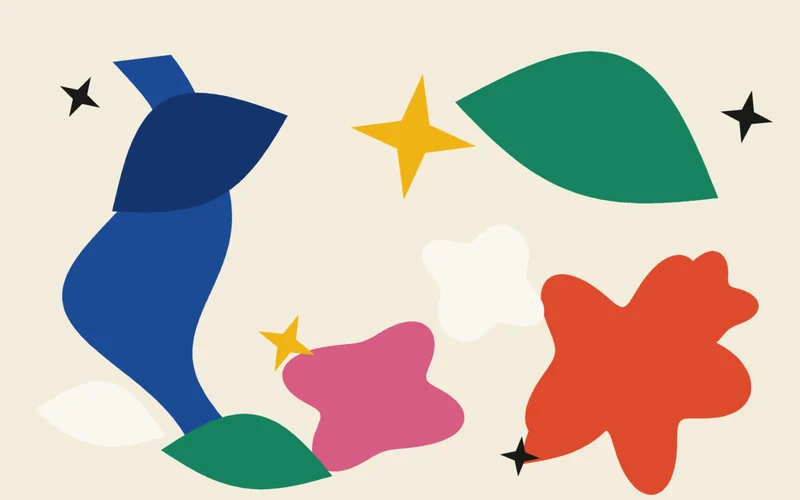
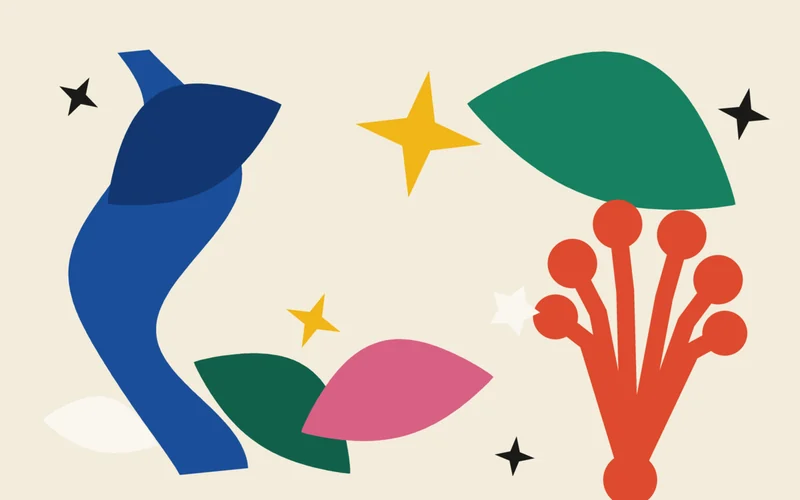
Практики + статья Матисса: правки по замечаниям
- praktika-rezat-po-vremeni: перестроена вовлекающе (Зачем это вам → Как делать → Как развивает → Что будет за неделю), тайминг 5-4-3-2-1 мин (минимум 1 мин, не 15 сек), HowTo JSON-LD и мета обновлены, добавлены хэштеги + знак [Vi]
- praktiki.html (bake): «Рисунки в парах» больше не ведут на страницу ЗОРВЕД (убран неверный переход), карточка rezat с новым таймингом
- обложка статьи «Матисс» перерисована ближе к вырезкам (коралл-веер, миндалевидные листья, водоросль, звёзды), alt/figcaption обновлены
- статья ogranichenie-proryv: фраза softCTA заменена на «С ограничением можно поработать прямо сегодня»

diff --git a/praktika-rezat-po-vremeni.html b/praktika-rezat-po-vremeni.html
@@ -4,7 +4,7 @@
   <meta charset="UTF-8">
   <meta name="viewport" content="width=device-width, initial-scale=1.0">
   <title>Разрежьте это немедленно! — практика по вырезкам Матисса · Практики</title>
-  <meta name="description" content="Арт-практика «Разрежьте это немедленно!»: коллаж и вырезание из бумаги по методу поздних вырезок Матисса. Режьте формы на таймер (60–30–15 секунд), без карандаша — ограничение обходит внутреннего критика и помогает пройти творческий блок. Подойдёт даже тем, кто «не умеет рисовать».">
+  <meta name="description" content="Арт-практика «Разрежьте это немедленно!»: коллаж и вырезание из бумаги по методу поздних вырезок Матисса. Режьте формы на таймер (5–4–3–2–1 минута), без карандаша — ограничение обходит внутреннего критика и помогает пройти творческий блок. Зачем это в жизни, как делать, как развивает и что будет, если делать неделю каждый день. Подойдёт даже тем, кто «не умеет рисовать».">
   <meta name="keywords" content="вырезки Матисса, коллаж, аппликация, вырезание из бумаги, арт-практика, творческий блок, как побороть творческий блок, я не умею рисовать, Матисс, арт-терапия">
   <link rel="canonical" href="https://voobrazhaemy.ru/praktika-rezat-po-vremeni.html">
   <meta property="og:type" content="article">
@@ -18,7 +18,7 @@
   {"@context":"https://schema.org","@type":"BreadcrumbList","itemListElement":[{"@type":"ListItem","position":1,"name":"Главная","item":"https://voobrazhaemy.ru/"},{"@type":"ListItem","position":2,"name":"Практики","item":"https://voobrazhaemy.ru/praktiki.html"},{"@type":"ListItem","position":3,"name":"Разрежьте это немедленно!","item":"https://voobrazhaemy.ru/praktika-rezat-po-vremeni.html"}]}
   </script>
   <script type="application/ld+json">
-  {"@context":"https://schema.org","@type":"HowTo","name":"Разрежьте это немедленно! — практика по вырезкам Матисса","description":"Работа с формой напрямую по методу поздних вырезок Матисса: резать цветную бумагу на таймер, без карандаша.","image":"https://voobrazhaemy.ru/assets/practices/rezat-po-vremeni.jpg","totalTime":"PT15M","supply":[{"@type":"HowToSupply","name":"ножницы"},{"@type":"HowToSupply","name":"цветная бумага"},{"@type":"HowToSupply","name":"основа побольше"},{"@type":"HowToSupply","name":"таймер"}],"step":[{"@type":"HowToStep","name":"Первый круг — 60 секунд","text":"Режьте формы из цветной бумаги без карандаша и плана."},{"@type":"HowToStep","name":"Второй круг — 30 секунд","text":"Новый цвет, ещё формы. Думать некогда."},{"@type":"HowToStep","name":"Третий круг — 15 секунд","text":"Одна-две формы. Работает только рука."},{"@type":"HowToStep","name":"Композиция","text":"Разложите вырезанное на большом листе и двигайте, пока не появится ощущение, что встало на место."}]}
+  {"@context":"https://schema.org","@type":"HowTo","name":"Разрежьте это немедленно! — практика по вырезкам Матисса","description":"Работа с формой напрямую по методу поздних вырезок Матисса: резать цветную бумагу на таймер по убыванию (5–4–3–2–1 минута), без карандаша.","image":"https://voobrazhaemy.ru/assets/practices/rezat-po-vremeni.jpg","totalTime":"PT15M","supply":[{"@type":"HowToSupply","name":"ножницы"},{"@type":"HowToSupply","name":"цветная бумага"},{"@type":"HowToSupply","name":"основа побольше"},{"@type":"HowToSupply","name":"таймер"}],"step":[{"@type":"HowToStep","name":"Первый круг — 5 минут","text":"Режьте формы из цветной бумаги без карандаша и плана."},{"@type":"HowToStep","name":"Второй круг — 4 минуты","text":"Новый цвет, ещё формы."},{"@type":"HowToStep","name":"Третий круг — 3 минуты","text":"Рука разгоняется, думать некогда."},{"@type":"HowToStep","name":"Четвёртый круг — 2 минуты","text":"Только цвет и движение."},{"@type":"HowToStep","name":"Пятый круг — 1 минута","text":"Одна-две формы. Работает только рука."},{"@type":"HowToStep","name":"Композиция","text":"Разложите вырезанное на большом листе и двигайте, пока не появится ощущение, что встало на место."}]}
   </script>
   <link rel="preconnect" href="https://fonts.googleapis.com">
   <link rel="preconnect" href="https://fonts.gstatic.com" crossorigin>
@@ -86,7 +86,13 @@
     <div class="pset__tag">Творческий блок · практика</div>
     <h1 class="pset__title">Разрежьте это немедленно!</h1>
     <div class="pset__author">По методу поздних вырезок Матисса (gouaches découpées)</div>
-    <p class="pset__intro">Работа с формой напрямую — тем самым способом, каким Матисс делал свои поздние вырезки, ножницами, из инвалидного кресла. Два ограничения, время и отсутствие карандаша, снимают контроль быстрее любой инструкции «расслабьтесь». И если сейчас мелькнуло <em>«я не умею рисовать»</em> — эта практика как раз для вас: тут нужно резать и раскладывать, а это точно получится.</p>
+    <p class="pset__intro">Есть момент, знакомый почти каждому: рука тянется что-то сделать — и замирает. Внутри включается голос, который уже знает, как «правильно» и почему «не выйдет». Эта практика его обходит. Тут нельзя сделать плохо: вы режете цветную бумагу ножницами, без карандаша и без плана. И если сейчас мелькнуло <em>«я не умею рисовать»</em> — практика как раз для вас: резать и раскладывать умеют руки, диплом художника для этого не нужен.</p>
+
+    <div class="pblock">
+      <h3>Зачем это вам</h3>
+      <p>Смысл не в бумаге. Ограничение — таймер и запрет на карандаш — снимает контроль быстрее любой инструкции «расслабьтесь». А контроль мы носим не только над ножницами. Тот же голос стоит между нами и первым словом в трудном разговоре, первым шагом в новом деле, решением, которое давно откладывается «до готовности».</p>
+      <p>Когда рука привыкает действовать раньше, чем включается критик, это остаётся с вами и за пределами стола. Появляется разрешение начать до того, как всё продумано, — и увидеть, что нужное часто рождается с первого движения, а не с десятого.</p>
+    </div>
 
     <div class="plist">
 
@@ -102,11 +108,13 @@
 
       <div class="pcard">
         <div class="pcard__name">Как делать</div>
-        <p>Разложите цвет перед собой. Не выбирайте долго — берите то, к чему потянулась рука.</p>
+        <p>Разложите цвет перед собой. Не выбирайте долго — берите то, к чему потянулась рука. Дальше — пять кругов, и на каждом времени всё меньше.</p>
         <ul>
-          <li><b>Первый круг, 60 секунд.</b> Режьте формы. Без карандаша, без наброска, без плана. Сколько успеете — столько успеете.</li>
-          <li><b>Второй круг, 30 секунд.</b> Новый цвет, ещё формы. Времени вдвое меньше — думать некогда совсем.</li>
-          <li><b>Третий круг, 15 секунд.</b> Одна-две формы. Здесь работает только рука.</li>
+          <li><b>Первый круг, 5 минут.</b> Режьте формы. Без карандаша, без наброска, без плана.</li>
+          <li><b>Второй круг, 4 минуты.</b> Новый цвет, ещё формы.</li>
+          <li><b>Третий круг, 3 минуты.</b> Рука разгоняется, думать почти некогда.</li>
+          <li><b>Четвёртый круг, 2 минуты.</b> Только цвет и движение.</li>
+          <li><b>Пятый круг, 1 минута.</b> Одна-две формы. Здесь работает только рука.</li>
         </ul>
         <p style="margin-top:10px">Потом уберите таймер. Разложите всё вырезанное на большом листе и двигайте — пока не появится ощущение «вот так». Не «красиво», а что встало на место. Когда встало — остановитесь.</p>
       </div>
@@ -120,7 +128,7 @@
         <div class="pcard__name">Что заметить</div>
         <ul>
           <li>Какой цвет рука взяла первой.</li>
-          <li>Что изменилось между шестьюдесятью секундами и пятнадцатью — стало хуже или свободнее.</li>
+          <li>Что изменилось между первым кругом и последним — стало хуже или свободнее.</li>
           <li>В какой момент захотелось начать планировать. И что осталось, когда планировать стало некогда.</li>
         </ul>
       </div>
@@ -128,12 +136,33 @@
     </div>
 
     <div class="pblock">
-      <h3>Что это даёт</h3>
-      <p>Ограничение по времени обходит внутреннего критика — он просто не успевает включиться. Отсутствие карандаша убирает этап «сначала правильно, потом красиво»: форма и цвет рождаются одним движением. И часто первое движение руки и есть верное — достаточно существует, и его видно сразу.</p>
-      <a class="pmore" href="journal/ogranichenie-proryv.html">Почему это работает и как это открыл Матисс — в статье «Когда ограничение оказывается прорывом»</a>
+      <h3>Как это развивает</h3>
+      <ul>
+        <li><b>Спонтанность</b> — способность начать без плана и без раскачки.</li>
+        <li><b>Прямую работу с формой и цветом</b>, без промежуточного «сначала правильно, потом красиво».</li>
+        <li><b>Меньше контроля</b> там, где он мешает, а не помогает.</li>
+        <li><b>Разрешение на несовершенство</b> — короткий путь мимо внутреннего критика.</li>
+      </ul>
+    </div>
+
+    <div class="pblock">
+      <h3>Что будет, если делать неделю каждый день</h3>
+      <p>Одна практика снимает контроль на пятнадцать минут. Неделя ежедневно — это уже привычка, а привычка меняет не технику, а ощущение.</p>
+      <p>К третьему-четвёртому дню рука перестаёт спрашивать разрешения: вы садитесь и сразу режете, без «сейчас соберусь». Критик всё ещё что-то говорит, но вы уже знаете, что его можно не слушать, — и это переносится за пределы стола, на дела, которые раньше буксовали на старте.</p>
+      <p>К концу недели накопится стопка работ, сделанных без единого «правильно». И, скорее всего, поменяетесь не вы как «художник» — поменяется то, как легко даётся первый шаг. Начинать окажется проще, чем казалось: не потому что пришёл идеальный момент, а потому что вы перестали его ждать.</p>
+    </div>
+
+    <div class="pblock">
+      <h3>Почему это работает</h3>
+      <p>Ограничение по времени обходит внутреннего критика — он просто не успевает включиться. Отсутствие карандаша убирает этап «сначала правильно, потом красиво»: форма и цвет рождаются одним движением. И часто первое движение руки и есть верное — достаточное существует, и его видно сразу.</p>
+      <a class="pmore" href="journal/ogranichenie-proryv.html">Как это открыл Матисс — в статье «Когда ограничение оказывается прорывом»</a>
     </div>
 
     <div class="psource">Метод поздних вырезок (gouaches découpées) Анри Матисса. Работы этого периода можно посмотреть на сайтах <a href="https://www.tate.org.uk/art/artists/henri-matisse-1568" target="_blank" rel="noopener">Tate</a>, <a href="https://www.moma.org/artists/3832" target="_blank" rel="noopener">MoMA</a> и Музея Матисса в Ницце; капелла Розария в Вансе открыта для посещения.</div>
+
+    <p style="margin-top:22px;font-size:14px;line-height:1.7;color:rgba(23,24,26,.55)">#Матисс #вырезки #коллаж #творческийблок #арткоучинг #МыДолжныБытьВоображаемы</p>
+
+    <p style="text-align:right;margin:6px 0 0"><img src="assets/img/journal/emoji/znak_vi.png" alt="[Vi]" style="width:40px;height:40px;opacity:.9"></p>
   </article>
 
 </div>

diff --git a/journal/ogranichenie-proryv.html b/journal/ogranichenie-proryv.html
@@ -87,7 +87,7 @@
   </div>
 
   <figure class="article__figure">
-    <img src="../assets/img/journal/matisse/hero.jpg" width="1200" height="760" alt="Коллаж из вырезанных ножницами цветных форм в духе поздних вырезок Матисса: синяя фигура-водоросль, изумрудные листья, коралловая форма, звёзды на тёплом бумажном фоне">
+    <img src="../assets/img/journal/matisse/hero.jpg" width="1200" height="760" alt="Вырезанные ножницами цветные формы в духе поздних вырезок Матисса: синяя фигура-водоросль, миндалевидные листья, коралловая ветвь и четырёхлучевые звёзды на тёплом бумажном фоне">
     <figcaption>Формы, вырезанные прямо из цвета: наш образ к теме, в духе поздних вырезок Матисса. Сами работы художника — по ссылкам в конце статьи.</figcaption>
   </figure>
 
@@ -131,7 +131,7 @@
 
       <p>Это и есть то, что открыл Матисс, только в масштабе одной встречи: убери лишний шаг — и появится то, чего не было при всех возможностях.</p>
 
-      <p class="article__softcta">Ограничение можно попробовать на себе прямо сегодня — за пятнадцать минут, ножницами, без карандаша. Мы собрали короткую практику по методу вырезок: <a href="../praktika-rezat-po-vremeni.html" style="display:inline-block;background:var(--teal);color:#fff;padding:3px 15px;border-radius:999px;text-decoration:none;font-weight:600;white-space:nowrap">Разрежьте это немедленно!</a> А если захочется резать и создавать не в одиночку — <a href="../index.html#contacts" style="color:var(--terra);font-weight:700;text-decoration:none">приходите на арт-коучинг</a>.</p>
+      <p class="article__softcta">С ограничением можно поработать прямо сегодня. Мы собрали короткую практику по методу вырезок: <a href="../praktika-rezat-po-vremeni.html" style="display:inline-block;background:var(--teal);color:#fff;padding:3px 15px;border-radius:999px;text-decoration:none;font-weight:600;white-space:nowrap">Разрежьте это немедленно!</a> А если захочется резать и создавать не в одиночку — <a href="../index.html#contacts" style="color:var(--terra);font-weight:700;text-decoration:none">приходите на арт-коучинг</a>.</p>
 
       <p style="font-size:14px;line-height:1.7;color:rgba(23,24,26,.6)"><b>Источники по теме:</b> работы этого периода можно посмотреть на сайтах <a href="https://www.tate.org.uk/art/artists/henri-matisse-1568" target="_blank" rel="noopener">Tate</a>, <a href="https://www.moma.org/artists/3832" target="_blank" rel="noopener">MoMA</a> и Музея Матисса в Ницце; капелла Розария в Вансе открыта для посещения.</p>
 

diff --git a/praktiki.html b/praktiki.html
@@ -127,7 +127,7 @@
     <div class="lcard__body">
       <h3 class="lcard__title">Разрежьте это немедленно!</h3>
       <div class="lcard__author">По методу вырезок Матисса</div>
-      <p class="lcard__how">Режьте формы из цветной бумаги на таймер — 60, 30, 15 секунд, без карандаша. Ограничение обходит внутреннего критика: форма и цвет рождаются одним движением. Подойдёт, даже если «не умеете рисовать».</p>
+      <p class="lcard__how">Режьте формы из цветной бумаги на таймер — 5, 4, 3, 2, 1 минута, без карандаша. С каждым кругом времени всё меньше, и рука начинает отвечать раньше контроля: форма и цвет рождаются одним движением. Подойдёт, даже если «не умеете рисовать».</p>
       <div class="lcard__dev"><b>Развивает:</b> спонтанность · форму и цвет напрямую · меньше контроля</div>
       <div class="lcard__tags"><span class="lcard__tag">#Матисс</span><span class="lcard__tag">#коллаж</span><span class="lcard__tag">#вырезание</span><span class="lcard__tag">#арт-практика</span><span class="lcard__tag">#творческий блок</span><span class="lcard__tag">#я не умею рисовать</span></div>
     </div>
@@ -242,7 +242,7 @@
       <div class="lcard__tags"><span class="lcard__tag">#небо</span><span class="lcard__tag">#пространство</span><span class="lcard__tag">#покой</span><span class="lcard__tag">#Матюшин</span></div>
     </div>
   </a>
-  <a class="lcard" data-cat="Контакт" data-tags="контакт|пара|без слов|границы|доверие" href="praktika-matyushin.html">
+  <article class="lcard" data-cat="Контакт" data-tags="контакт|пара|без слов|границы|доверие">
     <div class="lcard__imgwrap"><img class="lcard__img" loading="lazy" src="assets/practices/risunki-v-parah.jpg" alt="Рисунки в парах"><span class="lcard__type">Контакт</span></div>
     <div class="lcard__body">
       <h3 class="lcard__title">Рисунки в парах</h3>
@@ -251,7 +251,7 @@
       <div class="lcard__dev"><b>Развивает:</b> невербальный контакт · чувство границ и общего поля · умение вести и уступать</div>
       <div class="lcard__tags"><span class="lcard__tag">#контакт</span><span class="lcard__tag">#пара</span><span class="lcard__tag">#без слов</span><span class="lcard__tag">#границы</span><span class="lcard__tag">#доверие</span></div>
     </div>
-  </a>
+  </article>
   <!--CARDS_END-->
   </div>
 

diff --git a/journal.html b/journal.html
@@ -70,7 +70,7 @@
     <div class="jfeed__grid">
 
       <a class="jcard reveal" href="journal/ogranichenie-proryv.html">
-        <div class="jcard__media"><img src="assets/img/journal/matisse/card.webp" width="800" height="500" loading="lazy" alt="Коллаж из вырезанных ножницами цветных форм в духе поздних вырезок Матисса"></div>
+        <div class="jcard__media"><img src="assets/img/journal/matisse/card.webp" width="800" height="500" loading="lazy" alt="Вырезанные ножницами цветные формы в духе поздних вырезок Матисса"></div>
         <div class="jcard__body">
           <div class="jcard__tag">История художника · Матисс</div>
           <h2 class="jcard__title">Когда ограничение оказывается прорывом</h2>
